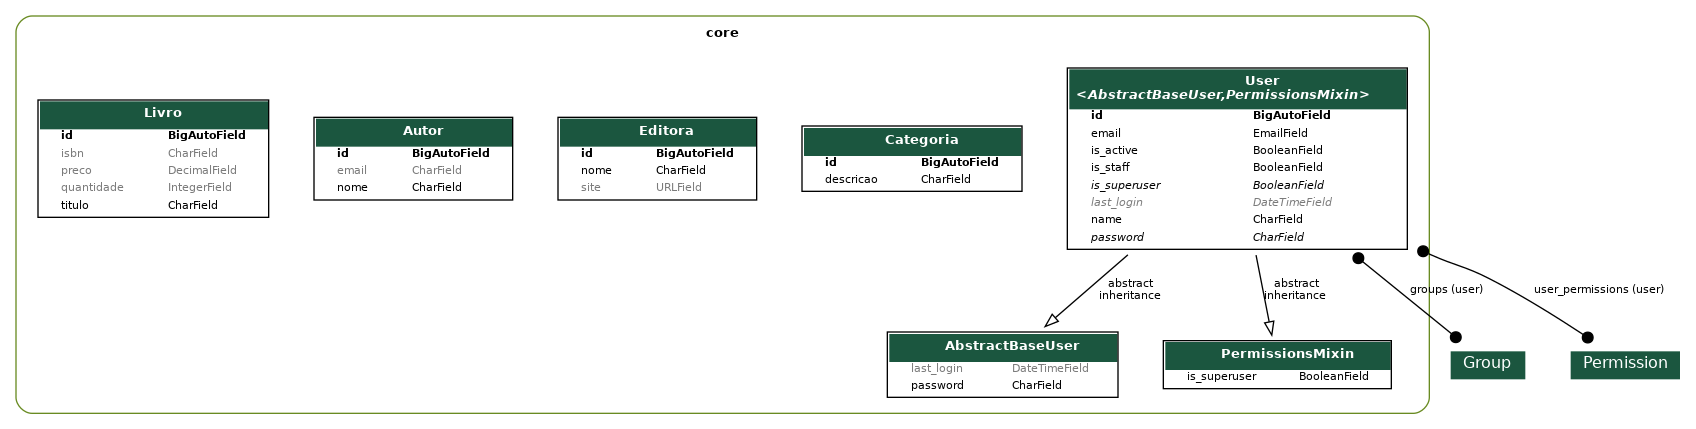
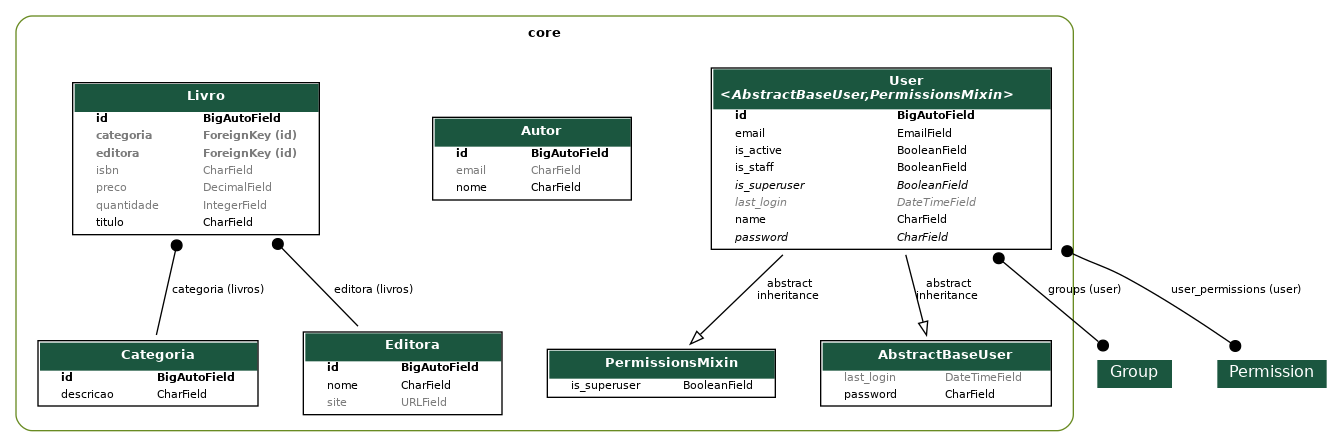
Adiciona relacionamento de Livro com Categoria e Editora

diff --git a/core/migrations/0006_alter_autor_options_livro_categoria_livro_editora.py b/core/migrations/0006_alter_autor_options_livro_categoria_livro_editora.py
@@ -1,0 +1,40 @@
+# Generated by Django 5.0.2 on 2024-07-29 14:45
+
+import django.db.models.deletion
+from django.db import migrations, models
+
+
+class Migration(migrations.Migration):
+
+    dependencies = [
+        ("core", "0005_livro_alter_autor_email"),
+    ]
+
+    operations = [
+        migrations.AlterModelOptions(
+            name="autor",
+            options={"verbose_name": "Autor", "verbose_name_plural": "Autores"},
+        ),
+        migrations.AddField(
+            model_name="livro",
+            name="categoria",
+            field=models.ForeignKey(
+                blank=True,
+                null=True,
+                on_delete=django.db.models.deletion.PROTECT,
+                related_name="livros",
+                to="core.categoria",
+            ),
+        ),
+        migrations.AddField(
+            model_name="livro",
+            name="editora",
+            field=models.ForeignKey(
+                blank=True,
+                null=True,
+                on_delete=django.db.models.deletion.PROTECT,
+                related_name="livros",
+                to="core.editora",
+            ),
+        ),
+    ]

diff --git a/core/models/livro.py b/core/models/livro.py
@@ -1,10 +1,17 @@
 from django.db import models
+from .categoria import Categoria
+from .editora import Editora
 
 class Livro(models.Model):
     titulo = models.CharField(max_length=255)
     isbn = models.CharField(max_length=32, null=True, blank=True)
     quantidade = models.IntegerField(default=0,  null=True, blank=True)
     preco = models.DecimalField(max_digits=7, decimal_places=2, default=0, null=True, blank=True)
+    categoria = models.ForeignKey(
+        Categoria, on_delete=models.PROTECT, related_name="livros", null=True, blank=True
+    )
+    editora = models.ForeignKey(Editora, on_delete=models.PROTECT, related_name="livros", null=True, blank=True)
+
 
     def __str__(self):
         return f"({self.id}) {self.titulo} ({self.quantidade})"

diff --git a/core/models/autor.py b/core/models/autor.py
@@ -3,6 +3,8 @@ from django.db import models
 class Autor(models.Model):
     nome = models.CharField(max_length=100)
     email = models.CharField(max_length=100, blank=True, null=True)
-
+    class Meta:
+        verbose_name = "Autor"
+        verbose_name_plural = "Autores"
     def __str__(self):
         return self.nome
